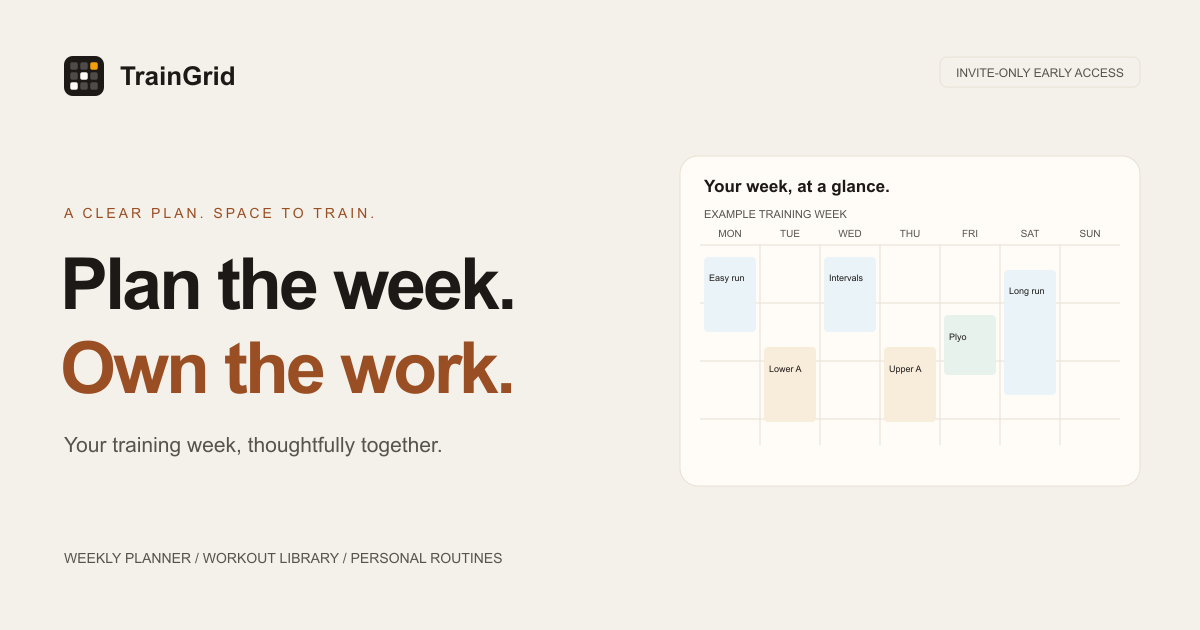
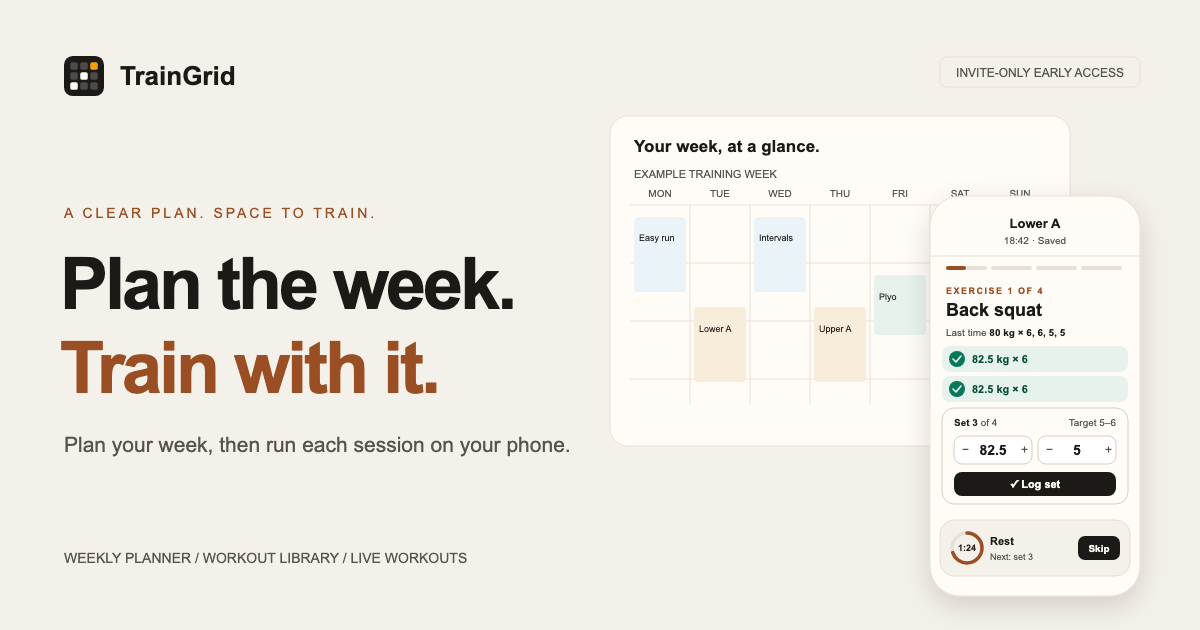
docs, og: "Plan the week. Train with it." in the README and share image
- README: the new tagline and subtitle, and a "Train with the plan"
  bullet under How it works (set logging, rest timer, last time,
  summary, saving without signal).
- Open Graph image: "Train with it.", a new subline and footer, and a
  phone showing a workout being logged beside the example week. The
  PNG is rendered from og-preview.svg at 1200 × 630.
- Image alt text in the site and landing metadata describes the new
  image.

diff --git a/app/layout.tsx b/app/layout.tsx
@@ -45,7 +45,7 @@ export const metadata: Metadata = {
     type: "website",
     title: "TrainGrid",
     description: "Plan the week, then train with it. An invite-only training planner and workout log.",
-    images: [{ url: "/marketing/og-preview.png", width: 1200, height: 630, alt: "TrainGrid weekly training planner" }],
+    images: [{ url: "/marketing/og-preview.png", width: 1200, height: 630, alt: "TrainGrid: an example training week beside a workout being logged on a phone" }],
   },
   twitter: { card: "summary_large_image", images: ["/marketing/og-preview.png"] },
 };

diff --git a/components/marketing/metadata.ts b/components/marketing/metadata.ts
@@ -14,7 +14,7 @@ export const landingMetadata: Metadata = {
         url: "/marketing/og-preview.png",
         width: 1200,
         height: 630,
-        alt: "TrainGrid: Plan the week. Own the work. Example weekly training planner.",
+        alt: "TrainGrid: Plan the week. Train with it. An example training week beside a workout being logged on a phone.",
       },
     ],
   },

diff --git a/README.md b/README.md
@@ -4,8 +4,8 @@
 
 <h1 align="center">TrainGrid</h1>
 
-<p align="center"><strong>Plan the week. Own the work.</strong><br />
-A calm, invite-only training planner: your week at a glance, a shared library of routines, and a straight answer to “what am I doing today?”</p>
+<p align="center"><strong>Plan the week. Train with it.</strong><br />
+A calm, invite-only training planner: your week at a glance, a shared library of routines, and each session run on your phone, set by set.</p>
 
 <p align="center">
   <a href="https://github.com/i-am-tj/TrainGrid/releases"><img alt="Release" src="https://img.shields.io/github/v/release/i-am-tj/TrainGrid?include_prereleases&sort=semver&label=release&color=9a4e24" /></a>
@@ -123,6 +123,7 @@ Every release: [What’s new](https://github.com/i-am-tj/TrainGrid/blob/main/CHA
 - **Your plan is yours.** Each member sees and edits only their own sessions and routines, enforced by the database (Row Level Security), not just the app.
 - **A shared library.** TrainGrid routines (runs, lifts, plyometrics, warm-ups, cooldowns) are read-only for everyone. **Copy to My Library** makes an editable copy; the original never changes.
 - **Scheduling copies.** Putting a routine on the calendar copies it into the session, so later edits never rewrite a planned or past session.
+- **Train with the plan.** Start a planned session on your phone and log each set (weight and reps, reps, or a tick). The rest timer starts from the plan’s rest, each exercise shows last time’s numbers, and a summary closes the workout. Sets save on the phone at once and reach TrainGrid when the connection returns; the planned session itself never changes.
 - **Today means your today.** “Today” follows your device’s time zone, on home and in the planner, from the very first page you open.
 - **Your profile.** Your plan in numbers, your data download, appearance, and What’s new, privacy and terms, behind your initials in the header.
 
